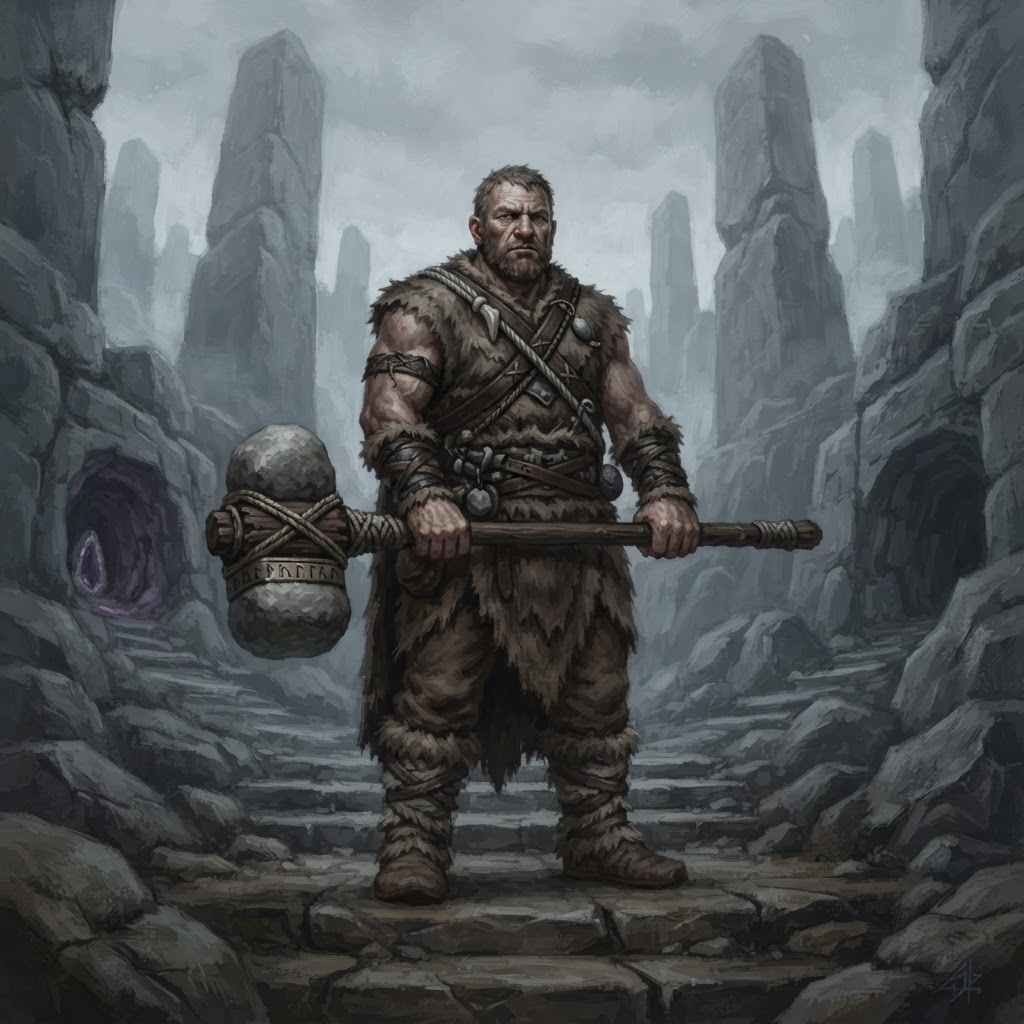
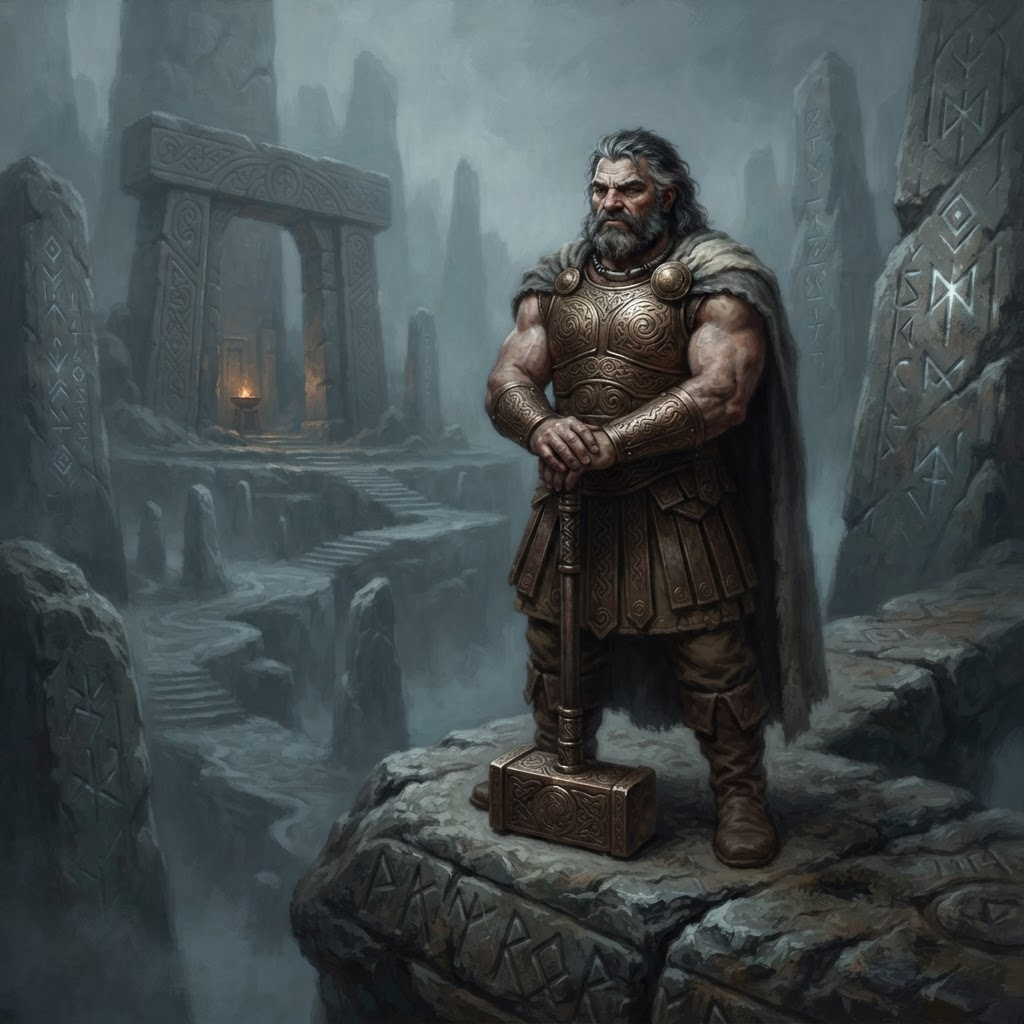
WARDEN M V2 CANON LOCKED (Big: 'Keep warden') — god-scale Stoneheart canon; male set 3/6; Veilborn M next

diff --git a/docs/ROSTER-PASS-STATUS.md b/docs/ROSTER-PASS-STATUS.md
@@ -300,5 +300,6 @@ Full pass order: 12 god-emergence re-rolls (6 realms x King+Queen) → Luminary 
 
 - VEILBORN V1 REJECTED (Sept 8 ~4:43 PM, Big: weapons don't match — mismatched pair + an extra belt blade that shouldn't exist). KIT-INTEGRITY LAW added to class art: the class kit renders EXACTLY as designed (Veilborn = matched twin blades and NOTHING else — matched pairs must match; no extra/backup weapons on the body). V2 re-rolled under the law; V3 re-rolled fresh (matched twin blades, one low + one sheathed, empty belt, stair's-foot composition) — CANON LOCKED Sept 8 ~5:20 PM (Big: 'Yeah I approved it earlier'): art/approved/CLASS-VEILBORN-CANON.png. Queue advances: WEAVER (Marenth) next, then Wildborn.
 
-- VERA RENAME (Sept 8 ~7:39 PM, Big: 'Maeve new name is also Vera'): the lorekeeper NPC Maev is now VERA — name updated across live docs (CAMELOT-CREATURES-AND-MAGIC.md, campaign lore); archives keep historical mentions. Pending V2 art file renamed art/pending/NPC-VERA-V2-MYTHIC-CELTIC-FROSTHALL.png. The V2 mythic-Celtic re-roll is still in his court awaiting its verdict.- RAVAGER M V3 CANON LOCKED (Sept 8 ~7:45 PM, Big: 'ravager approved aswell') — art/approved/CLASS-RAVAGER-CANON.png swapped to the V3 mythic-world roll (solid engraved breastplate, oxide-red torn mantle, greatsword tip-down, god-scale Ashfall caldera). Male set queue advances: WARDEN M rolls next (Stoneheart mythic world).
+- VERA RENAME (Sept 8 ~7:39 PM, Big: 'Maeve new name is also Vera'): the lorekeeper NPC Maev is now VERA — name updated across live docs (CAMELOT-CREATURES-AND-MAGIC.md, campaign lore); archives keep historical mentions. Pending V2 art file renamed art/pending/NPC-VERA-V2-MYTHIC-CELTIC-FROSTHALL.png. The V2 mythic-Celtic re-roll is still in his court awaiting its verdict.- WARDEN M V2 CANON LOCKED (Sept 8 ~8:02 PM, Big: 'Keep warden') — art/approved/CLASS-WARDEN-CANON.png swapped to the V2 mythic-world roll (solid engraved breastplate, bone-grey whisper cloak, warhammer head-down, god-scale Stoneheart). Male set now 3/6 locked: Sovereign ✓ Ravager ✓ Warden ✓. VEILBORN M rolls next (Duskmourn mythic world).
+- RAVAGER M V3 CANON LOCKED (Sept 8 ~7:45 PM, Big: 'ravager approved aswell') — art/approved/CLASS-RAVAGER-CANON.png swapped to the V3 mythic-world roll (solid engraved breastplate, oxide-red torn mantle, greatsword tip-down, god-scale Ashfall caldera). Male set queue advances: WARDEN M rolls next (Stoneheart mythic world).
 
